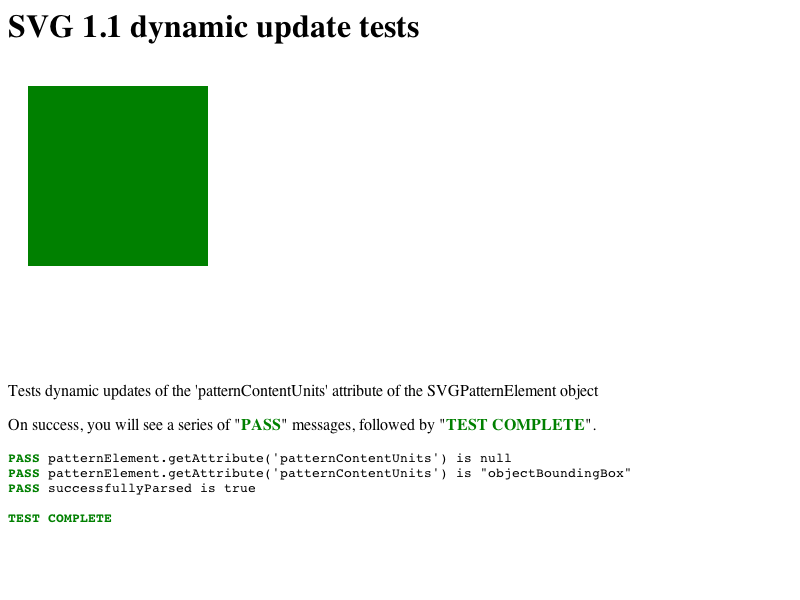
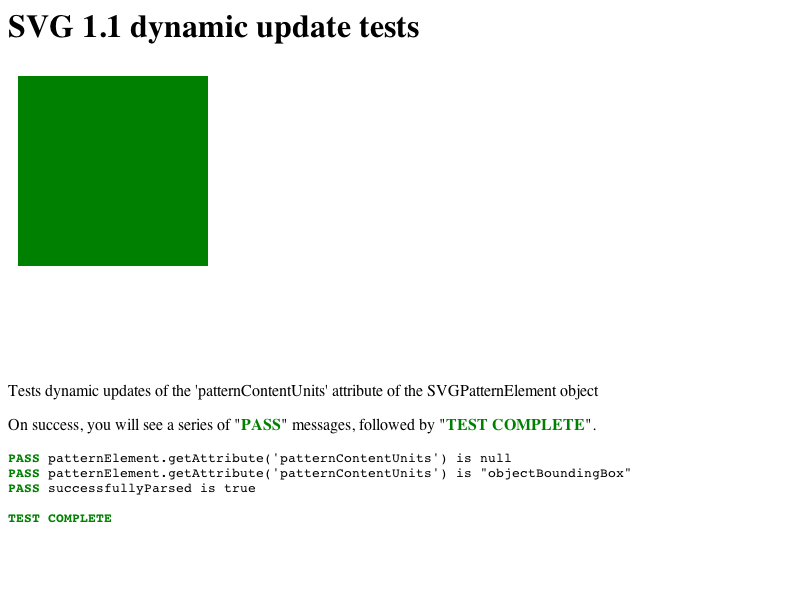
2011-02-17  Nikolas Zimmermann  <nzimmermann@rim.com>
Reviewed by Dirk Schulze.

        svg/batik/paints/patternRegions-positioned-objects.svg fails on Windows
        https://bugs.webkit.org/show_bug.cgi?id=44484

        Pattern of pattern defined with objectBoundingBox does not render correctly
        https://bugs.webkit.org/show_bug.cgi?id=53463

        Fix <pattern> + patternContentUnits="objectBoundingBox" support.
        We were incorrrectly translating the tile image transform, by the target objects bbox.x()/y().
        RenderSVGResourceMask/Clipper don't have this error.
        
        Fix nesting <patterns> in objectBoundingBox mode, propagate the tileImageTransform as new user-space
        when drawing the pattern children. <mask> + <clipPath> don't have the problem.

        Test: svg/custom/nested-pattern-boundingBoxModeContent.svg

        * rendering/svg/RenderSVGResourcePattern.cpp:
        (WebCore::RenderSVGResourcePattern::buildTileImageTransform):
        (WebCore::RenderSVGResourcePattern::createTileImage):

2011-02-17  Nikolas Zimmermann  <nzimmermann@rim.com>

        Reviewed by Dirk Schulze.

        svg/batik/paints/patternRegions-positioned-objects.svg fails on Windows
        https://bugs.webkit.org/show_bug.cgi?id=44484
 
        Pattern of pattern defined with objectBoundingBox does not render correctly
        https://bugs.webkit.org/show_bug.cgi?id=53463

        Update SnowLeopard pixel test baseline after adding new patternContentUnits="objectBoundingBox" tests.
[…]

Changed region(s): [[0.0, 0.12, 0.2812, 0.45]]

diff --git a/Source/WebCore/rendering/svg/RenderSVGResourcePattern.cpp b/Source/WebCore/rendering/svg/RenderSVGResourcePattern.cpp
@@ -233,10 +233,8 @@ bool RenderSVGResourcePattern::buildTileImageTransform(RenderObject* renderer,
     // Apply viewBox/objectBoundingBox transformations.
     if (!viewBoxCTM.isIdentity())
         tileImageTransform = viewBoxCTM;
-    else if (attributes.boundingBoxModeContent()) {
-        tileImageTransform.translate(objectBoundingBox.x(), objectBoundingBox.y());
+    else if (attributes.boundingBoxModeContent())
         tileImageTransform.scale(objectBoundingBox.width(), objectBoundingBox.height());
-    }
 
     return true;
 }
@@ -276,6 +274,8 @@ PassOwnPtr<ImageBuffer> RenderSVGResourcePattern::createTileImage(RenderObject* 
         tileImageContext->concatCTM(tileImageTransform);
 
     AffineTransform contentTransformation;
+    if (attributes.boundingBoxModeContent())
+        contentTransformation = tileImageTransform;
 
     // Draw the content into the ImageBuffer.
     for (Node* node = attributes.patternContentElement()->firstChild(); node; node = node->nextSibling()) {
